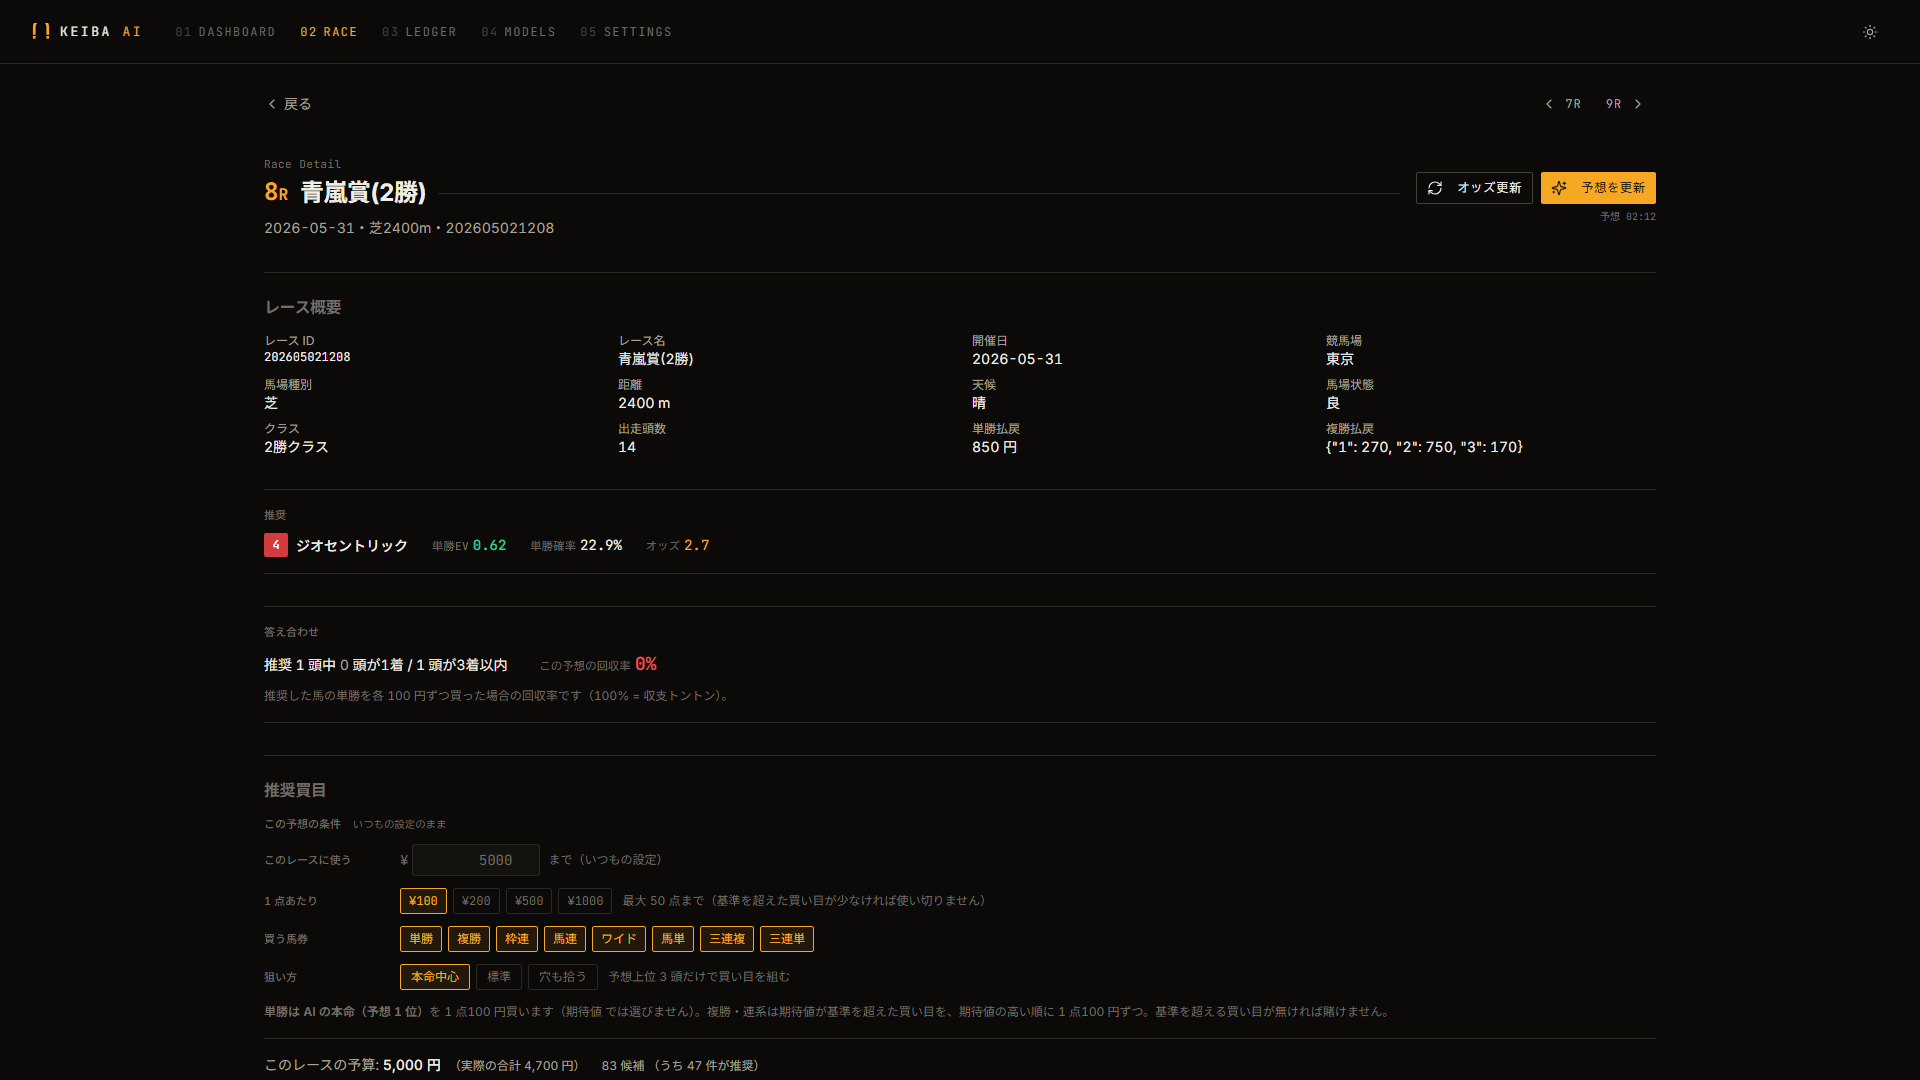
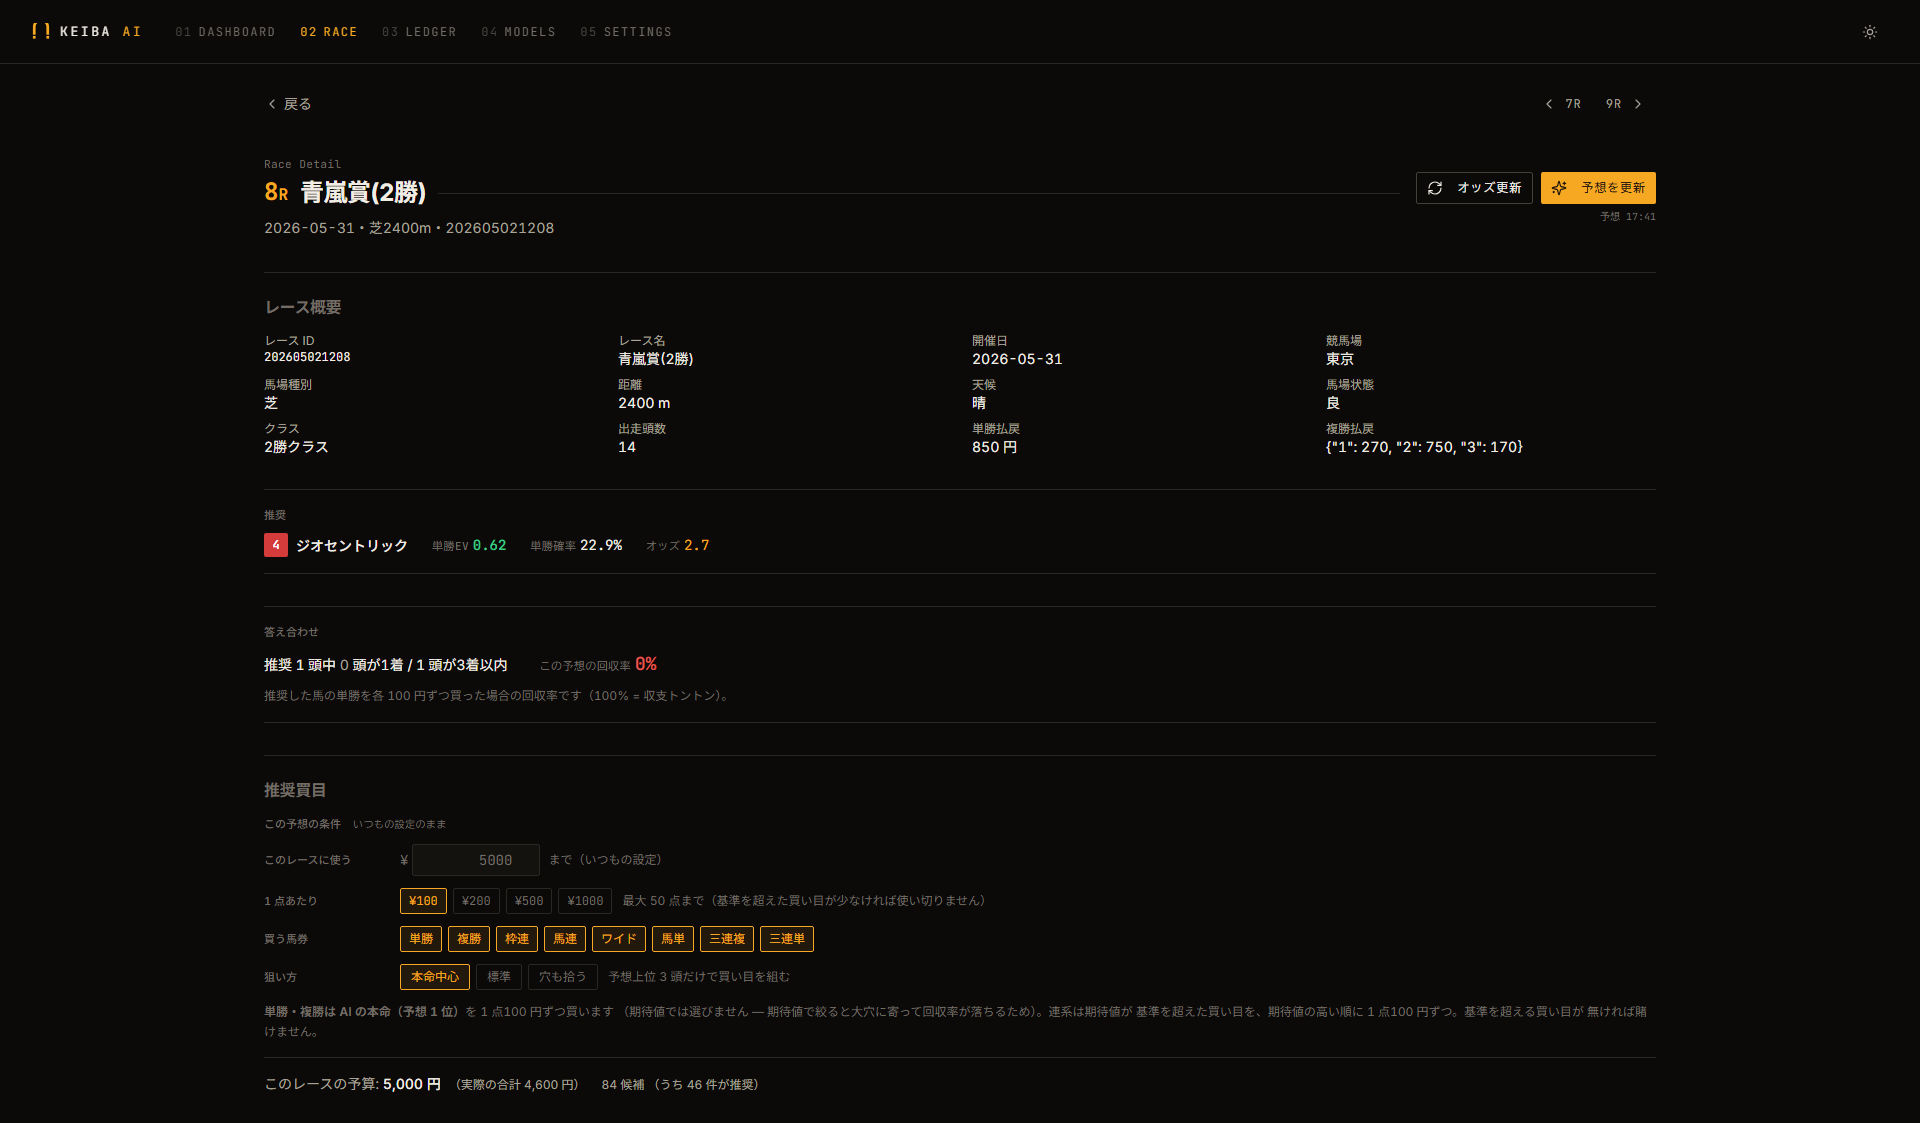
fix: 過去日に出馬表の取込ボタンを出さない / 当日も結果を取り込めるようにする
Race 画面の取込ボタンは日付で出し分けていたが、判定が「過去 / それ以外」の
2 値だったため両側に問題があった。

- 過去日に「出馬表を取得」が出ていた。netkeiba の結果ページには単勝オッズも
  載っており、単日 ingest が出走馬・オッズ・着順・払戻をまとめて入れる
  (scraper/parsers/race_result.py の 単勝 列 → jobs/ingest.py の odds_win)。
  未取得の過去日でも handleFetchResults が単日 ingest に切り替わるので、
  過去日に出馬表を取り直す意味は無く、レート制限つきの netkeiba に無駄な
  リクエストを投げるだけだった。
- 当日に「結果を取り込む」が出なかった。判定が date < today だったため、
  その日のレースが終わっても翌日まで結果を取り込めなかった。

isPast (2 値) を dayKind (past / today / future) に置き換え、

  past   … 結果のみ
  today  … 両方 (朝は出馬表、レース後は結果)
  future … 出馬表のみ

とした。実画面で 3 パターンとも確認済み。

あわせて docs/images/race-detail.png を差し替え。推奨の注記が複勝を本命買いに
する前の文言のままだったのと、最下部の予算行が文字の途中で切れていたため。
撮影ツール側の全高検出も直した (このアプリは #root 内の要素でスクロールするので
documentElement.scrollHeight が viewport 高のまま伸びない)。

README.md は portfolio-site の docs:emit による再生成分。

diff --git a/frontend/src/components/DayIngestPanel.tsx b/frontend/src/components/DayIngestPanel.tsx
@@ -23,13 +23,24 @@ interface DayIngestPanelProps {
   hasResults: boolean;
 }
 
-/** その日が過去か (= 結果が確定しているはず)。 */
-function isPast(date: string): boolean {
+type DayKind = 'past' | 'today' | 'future';
+
+/**
+ * 選択中の日が過去・当日・未来のどれか。出せる操作がこれで決まる。
+ *
+ *   past   … 結果のみ。**出馬表は出さない** — 結果ページに単勝オッズも載っており、
+ *            単日 ingest が出走馬・オッズ・着順・払戻をまとめて入れるので、
+ *            出馬表を取り直す意味が無い (netkeiba に無駄な負荷をかけるだけ)。
+ *   today  … 両方。朝は出馬表、レースが終われば結果、と同じ日に両方要る。
+ *   future … 出馬表のみ。結果はまだ存在しない。
+ */
+function dayKind(date: string): DayKind {
   const d = new Date();
   const today = `${d.getFullYear()}-${String(d.getMonth() + 1).padStart(2, '0')}-${String(
     d.getDate()
   ).padStart(2, '0')}`;
-  return date < today;
+  if (date < today) return 'past';
+  return date === today ? 'today' : 'future';
 }
 
 /**
@@ -69,7 +80,7 @@ export function DayIngestPanel({ date, raceCount, hasResults }: DayIngestPanelPr
     resultsMutation.isPolling ||
     (trackedJobId != null && jobStatus.data?.status === 'running');
 
-  const past = date ? isPast(date) : false;
+  const kind: DayKind | null = date ? dayKind(date) : null;
 
   /** 出馬表・オッズ: その日の race_id を発見してから取り込む。 */
   async function handleFetchEntries() {
@@ -156,19 +167,22 @@ export function DayIngestPanel({ date, raceCount, hasResults }: DayIngestPanelPr
       </div>
 
       <div className="flex flex-wrap gap-2">
-        <Button
-          size="sm"
-          variant={hasResults ? 'outline' : 'default'}
-          onClick={handleFetchEntries}
-          disabled={!date || busy || stopped}
-          title="出走馬・単勝オッズ・馬場状態を取り込みます（発走前の情報）"
-        >
-          <Download className="mr-1.5 h-4 w-4" />
-          {raceCount > 0 ? '出馬表・オッズを更新' : '出馬表を取得'}
-        </Button>
+        {/* 出馬表は発走前の情報。過去日では結果取込が上位互換なので出さない */}
+        {kind !== 'past' && (
+          <Button
+            size="sm"
+            variant={hasResults ? 'outline' : 'default'}
+            onClick={handleFetchEntries}
+            disabled={!date || busy || stopped}
+            title="出走馬・単勝オッズ・馬場状態を取り込みます（発走前の情報）"
+          >
+            <Download className="mr-1.5 h-4 w-4" />
+            {raceCount > 0 ? '出馬表・オッズを更新' : '出馬表を取得'}
+          </Button>
+        )}
 
-        {/* 結果は過去日にしか存在しない */}
-        {past && (
+        {/* 結果は未来日にはまだ無い。当日は終わったレースの分が取れる */}
+        {kind !== null && kind !== 'future' && (
           <Button
             size="sm"
             variant="outline"

diff --git a/frontend/src/__tests__/DayIngestPanel.test.tsx b/frontend/src/__tests__/DayIngestPanel.test.tsx
@@ -30,6 +30,13 @@ import {
 
 const PAST_DATE = '2020-06-06';
 const FUTURE_DATE = '2099-06-06';
+/** 当日は「出馬表」も「結果」も要る（朝は出馬表、レース後は結果）。 */
+const TODAY = (() => {
+  const d = new Date();
+  return `${d.getFullYear()}-${String(d.getMonth() + 1).padStart(2, '0')}-${String(
+    d.getDate()
+  ).padStart(2, '0')}`;
+})();
 
 const mockStatus: ScraperStatus = {
   stopped: false,
@@ -87,13 +94,33 @@ describe('DayIngestPanel', () => {
     expect(await screen.findByRole('button', { name: '結果を取り込む' })).toBeInTheDocument();
   });
 
+  it('過去日には出馬表ボタンを出さない（結果取込が上位互換）', async () => {
+    // 結果ページに単勝オッズも載っており、単日 ingest が出走馬・オッズ・着順・払戻を
+    // まとめて入れるので、過去日に出馬表を取り直す意味が無い。
+    renderPanel(PAST_DATE, 36);
+    await screen.findByRole('button', { name: '結果を取り込む' });
+    expect(
+      screen.queryByRole('button', { name: /出馬表/ })
+    ).not.toBeInTheDocument();
+  });
+
+  it('当日は出馬表と結果の両方を出す', async () => {
+    // 朝は出馬表、レースが終われば結果。当日を過去扱いしないと
+    // 「今日の終わったレースの結果が翌日まで取り込めない」穴ができる。
+    renderPanel(TODAY, 36);
+    expect(
+      await screen.findByRole('button', { name: '出馬表・オッズを更新' })
+    ).toBeInTheDocument();
+    expect(screen.getByRole('button', { name: '結果を取り込む' })).toBeInTheDocument();
+  });
+
   it('選択中の日の race_id を発見してから出馬表を取り込む', async () => {
     const user = userEvent.setup();
-    renderPanel(PAST_DATE, 0);
+    renderPanel(TODAY, 0);
     await user.click(await screen.findByRole('button', { name: '出馬表を取得' }));
 
     await waitFor(() => {
-      expect(vi.mocked(discoverTodayRaceIds)).toHaveBeenCalledWith(PAST_DATE);
+      expect(vi.mocked(discoverTodayRaceIds)).toHaveBeenCalledWith(TODAY);
     });
     await waitFor(() => {
       expect(vi.mocked(runShutubaScraper)).toHaveBeenCalledWith({
@@ -132,7 +159,8 @@ describe('DayIngestPanel', () => {
     expect(
       await screen.findByRole('button', { name: 'スクレイパーを再開' })
     ).toBeInTheDocument();
-    expect(screen.getByRole('button', { name: '出馬表・オッズを更新' })).toBeDisabled();
+    // 過去日なので出馬表ボタンは無い。取込ボタン (結果) が無効になっていればよい。
+    expect(screen.getByRole('button', { name: '結果を取り込む' })).toBeDisabled();
   });
 
   it('再開ボタンで停止フラグを解除する（旧 OPS タブの代替）', async () => {
